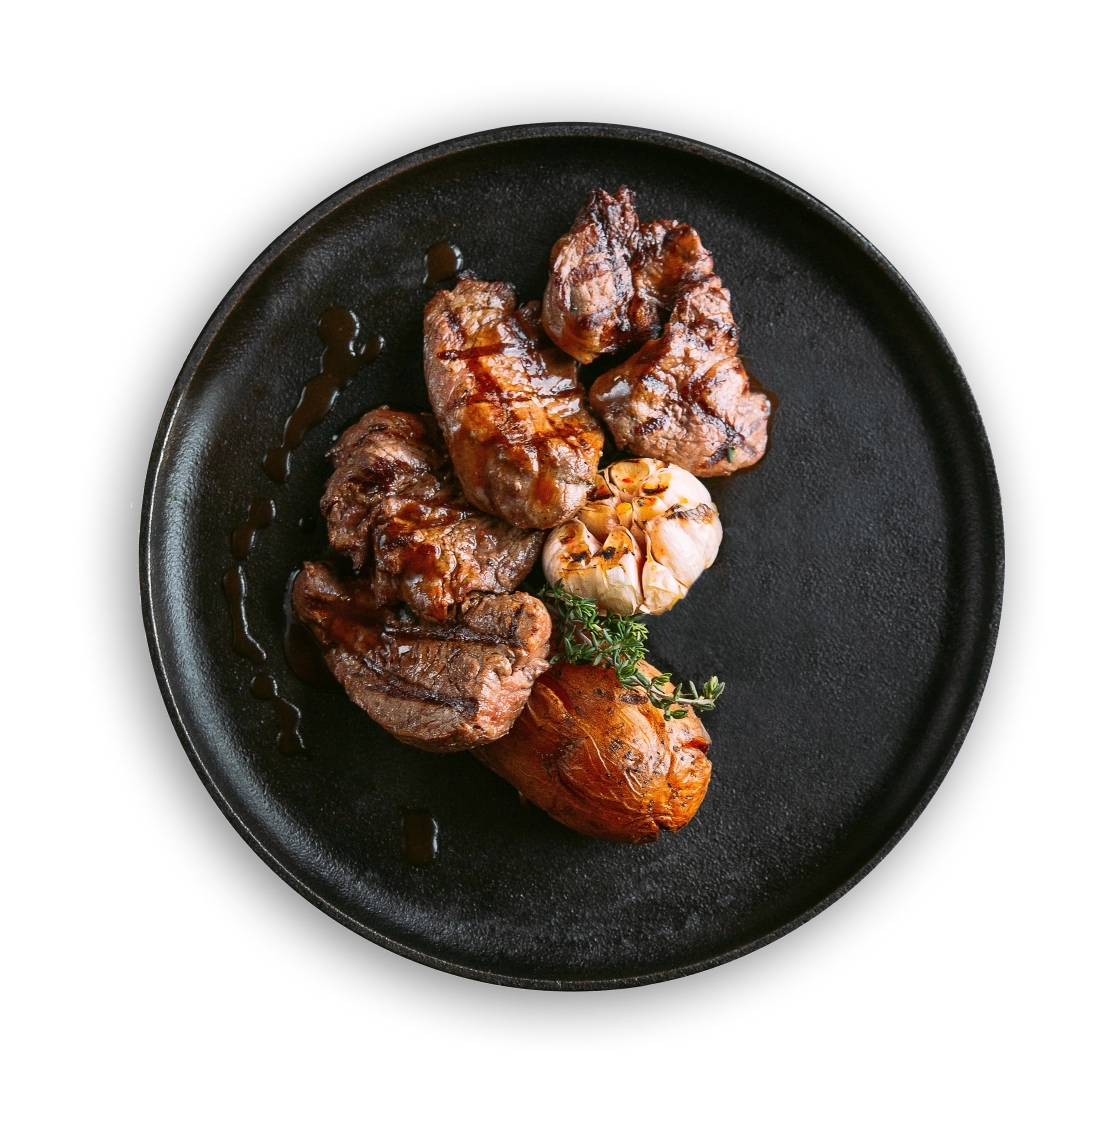
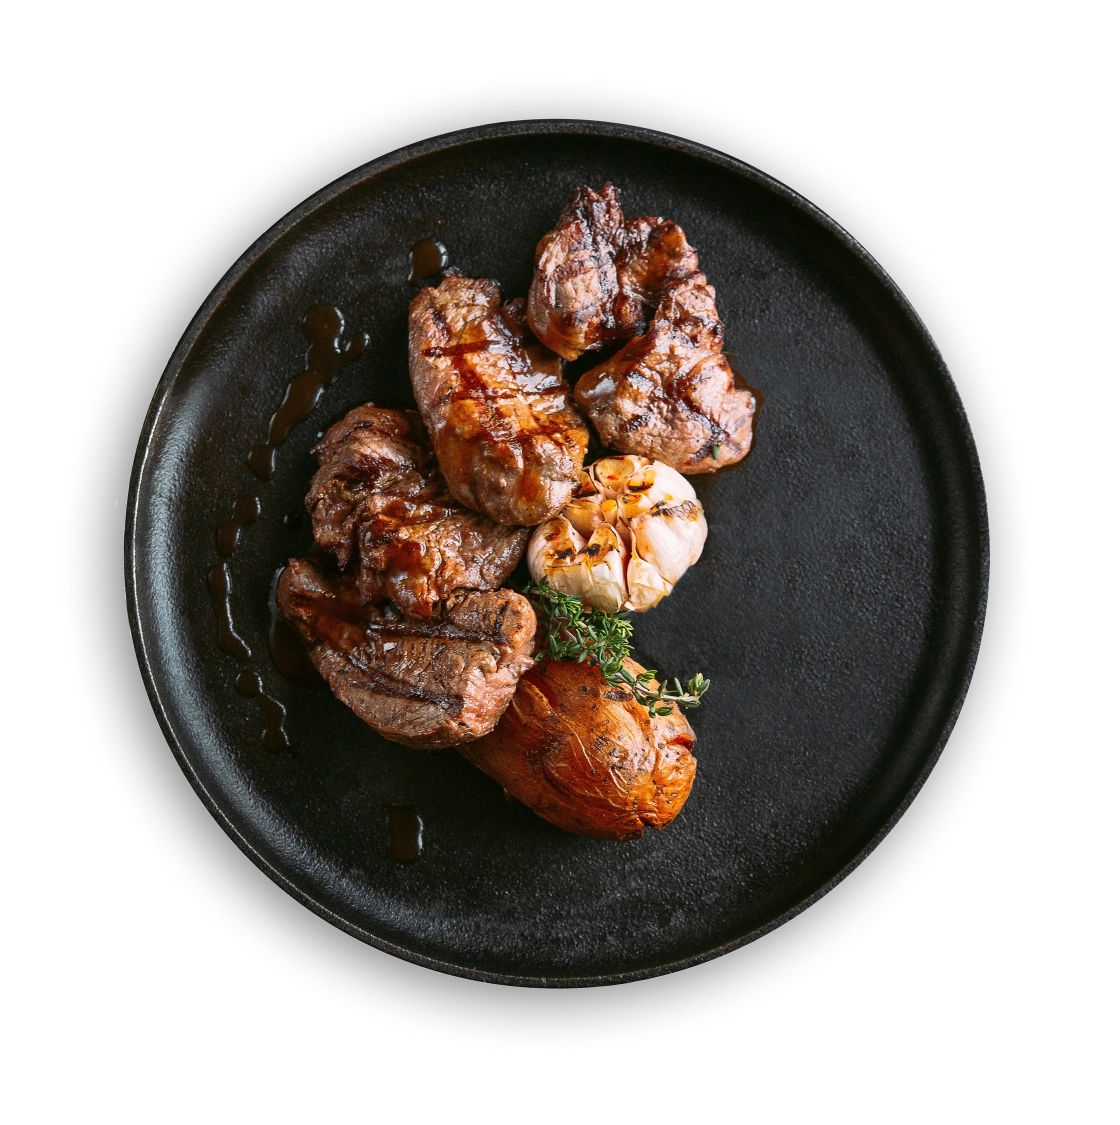
center everything

diff --git a/src/pages/Landing/Landing.scss b/src/pages/Landing/Landing.scss
@@ -27,10 +27,6 @@
     margin-bottom: 3rem;
     font-weight: 300;
   }
-
-  &__button {
-    width: 22rem;
-  }
   
   &__bg {
     position: fixed;
@@ -62,7 +58,7 @@
     position: absolute;
     left: 50%;
     transform: translateX(-50%);
-    top: 55%;
+    top: 60%;
 
     @media screen and (min-width: 1440px) {
       bottom: inherit;
